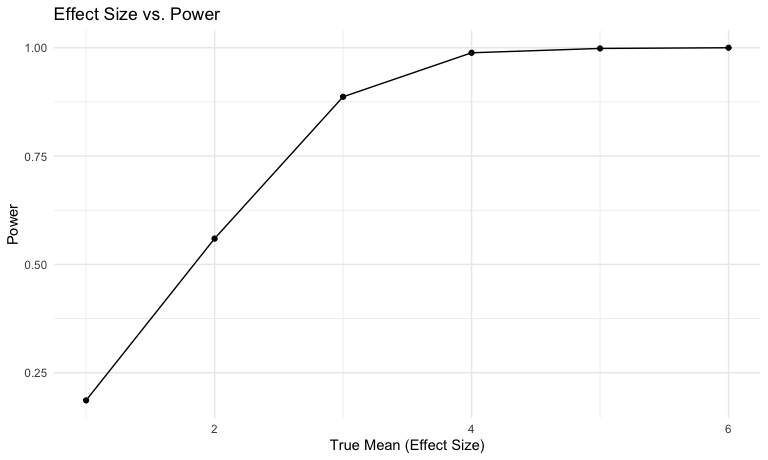
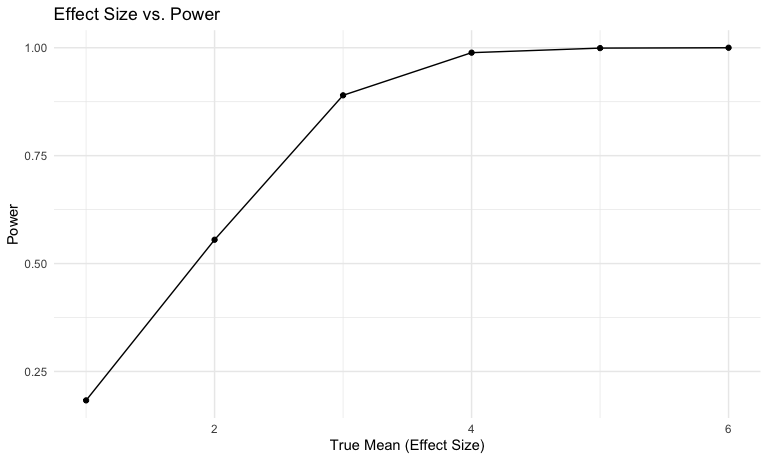
updating typos and making plot more readable

diff --git a/p8105_hw5_sc5826.md b/p8105_hw5_sc5826.md
@@ -23,16 +23,16 @@ bday_sim_results
 ## # A tibble: 49 × 2
 ##    group_size probability
 ##         <int>       <dbl>
-##  1          2      0.0028
-##  2          3      0.008 
-##  3          4      0.0169
-##  4          5      0.0237
-##  5          6      0.0393
-##  6          7      0.0596
-##  7          8      0.0771
-##  8          9      0.0941
-##  9         10      0.119 
-## 10         11      0.137 
+##  1          2      0.0026
+##  2          3      0.0092
+##  3          4      0.0168
+##  4          5      0.0284
+##  5          6      0.0396
+##  6          7      0.0553
+##  7          8      0.0751
+##  8          9      0.092 
+##  9         10      0.117 
+## 10         11      0.141 
 ## # ℹ 39 more rows
 ```
 
@@ -54,7 +54,7 @@ bday_sim_results|>
 The resulting curve is S-shaped, where the probability begins to taper
 around a group size of 50. At a group size of 2, the probability of at
 least 2 people sharing a birthday is 0.003. At a group size of 50, the
-probability of at least 2 people sharing a birthday is 0.971. To have
+probability of at least 2 people sharing a birthday is 0.968. To have
 more than a 50% probability of at least 2 people sharing a birthday, the
 group size needs to be at least 23.
 
@@ -70,7 +70,7 @@ n_datasets = 5000
 alpha = 0.05
 ```
 
-Running simulation for 𝜇 = 0:
+Running simulation for `mu` = 0:
 
 ``` r
 normal_dist_sim_mu_0 = 
@@ -84,22 +84,22 @@ normal_dist_sim_mu_0 =
   unnest(results)
 normal_dist_sim_mu_0
 ## # A tibble: 5,000 × 4
-##     mean  iter  mu_hat p.value
-##    <dbl> <int>   <dbl>   <dbl>
-##  1     0     1  0.0339  0.974 
-##  2     0     2 -0.103   0.902 
-##  3     0     3 -0.197   0.814 
-##  4     0     4 -1.02    0.353 
-##  5     0     5  0.678   0.440 
-##  6     0     6 -0.462   0.640 
-##  7     0     7  1.57    0.0992
-##  8     0     8 -1.06    0.321 
-##  9     0     9  0.198   0.808 
-## 10     0    10  0.0408  0.960 
+##     mean  iter   mu_hat p.value
+##    <dbl> <int>    <dbl>   <dbl>
+##  1     0     1  0.367     0.626
+##  2     0     2 -0.0988    0.911
+##  3     0     3 -0.445     0.648
+##  4     0     4  0.692     0.489
+##  5     0     5 -0.721     0.372
+##  6     0     6  1.12      0.260
+##  7     0     7 -0.760     0.432
+##  8     0     8  0.716     0.438
+##  9     0     9  0.00238   0.997
+## 10     0    10  1.12      0.214
 ## # ℹ 4,990 more rows
 ```
 
-Repeating simulation for 𝜇 in {1, 2, 3, 4, 5, 6}:
+Repeating simulation for `mu` in {1, 2, 3, 4, 5, 6}:
 
 ``` r
 normal_dist_sim = 
@@ -113,18 +113,18 @@ normal_dist_sim =
   unnest(results)
 normal_dist_sim
 ## # A tibble: 30,000 × 4
-##     mean  iter mu_hat p.value
-##    <int> <int>  <dbl>   <dbl>
-##  1     1     1  0.628  0.472 
-##  2     1     2  2.08   0.0140
-##  3     1     3  1.69   0.0440
-##  4     1     4  0.251  0.799 
-##  5     1     5  1.21   0.220 
-##  6     1     6  2.62   0.0101
-##  7     1     7 -0.234  0.775 
-##  8     1     8  2.37   0.0490
-##  9     1     9 -0.657  0.430 
-## 10     1    10  0.765  0.432 
+##     mean  iter  mu_hat  p.value
+##    <int> <int>   <dbl>    <dbl>
+##  1     1     1  0.223  0.819   
+##  2     1     2  0.293  0.738   
+##  3     1     3  0.525  0.569   
+##  4     1     4  0.815  0.395   
+##  5     1     5  3.12   0.000345
+##  6     1     6 -0.186  0.822   
+##  7     1     7  1.51   0.137   
+##  8     1     8  0.928  0.276   
+##  9     1     9  1.60   0.115   
+## 10     1    10  0.0578 0.945   
 ## # ℹ 29,990 more rows
 ```
 
@@ -150,9 +150,9 @@ normal_dist_sim |>
 
 There is an overall positive correlation between effect size and power.
 When effect sizes are very small (\< 2), power is low. This means the
-null hypothesis (𝜇 = 0) is failing to be rejected more often. At larger
-effect sizes (\> 4), power is nearly 1. This means the null hypothesis
-(𝜇 = 0) is being rejected nearly every time.
+null hypothesis (`mu` = 0) is failing to be rejected more often. At
+larger effect sizes (\> 4), power is nearly 1. This means the null
+hypothesis (`mu` = 0) is being rejected nearly every time.
 
 ``` r
 avg_estimates = 
@@ -179,19 +179,20 @@ rbind(avg_estimates, avg_estimates_null_rejected) |>
 
 <img src="p8105_hw5_sc5826_files/figure-gfm/unnamed-chunk-7-1.png" width="90%" />
 
-The sample average of mû across tests for which the null is rejected is
-only approximately equal to the true value of 𝜇 at larger effect sizes
-(\> 4). These larger effect sizes are also the ones at which power is
-nearly 1. As seen in the table below, as effect size increases, more
-tests result in rejecting the null hypothesis. Filtering for the tests
-where the p-value \< 0.05, means that we are only selecting samples that
-are very extreme (since p-value means the probability of seeing a result
-as extreme or more extreme than the result). When there is low power and
-a small effect size, many tests will fail to reject the null hypothesis,
-even if the data set is correctly estimating the true mean. This is also
-seen in the table below, where there is a larger difference between
-“avg_mu_hat_All Samples” and “avg_mu_hat_Filtered Samples (P \< 0.05)”
-at smaller effect sizes.
+The sample average of `mu_hat` across tests for which the null is
+rejected is only approximately equal to the true value of `mu` at larger
+effect sizes (\> 4). These larger effect sizes are also the ones at
+which power is nearly 1. As seen in the table below, as effect size
+increases, more tests result in rejecting the null hypothesis. Filtering
+for the tests where the p-value \< 0.05, means that we are only
+selecting samples that are very extreme (since p-value means the
+probability of seeing a result as extreme or more extreme than the
+result). When there is low power and a small effect size, many tests
+will fail to reject the null hypothesis, even if the data set is
+correctly estimating the true mean. This is also seen in the table
+below, where there is a larger difference between “avg_mu_hat_All
+Samples” and “avg_mu_hat_Filtered Samples (P \< 0.05)” at smaller effect
+sizes.
 
 ``` r
 rbind(avg_estimates, avg_estimates_null_rejected) |> 
@@ -204,12 +205,12 @@ rbind(avg_estimates, avg_estimates_null_rejected) |>
 
 | mean | avg_mu_hat_All Samples | avg_mu_hat_Filtered Samples (P \< 0.05) | n_All Samples | n_Filtered Samples (P \< 0.05) |
 |---:|---:|---:|---:|---:|
-| 1 | 1.010003 | 2.206044 | 5000 | 931 |
-| 2 | 2.004929 | 2.623367 | 5000 | 2798 |
-| 3 | 2.996076 | 3.189938 | 5000 | 4434 |
-| 4 | 4.004333 | 4.031122 | 5000 | 4942 |
-| 5 | 4.996487 | 5.001569 | 5000 | 4992 |
-| 6 | 6.022193 | 6.022193 | 5000 | 5000 |
+| 1 | 0.9871386 | 2.212469 | 5000 | 915 |
+| 2 | 1.9746222 | 2.598187 | 5000 | 2776 |
+| 3 | 3.0225517 | 3.209458 | 5000 | 4449 |
+| 4 | 4.0005166 | 4.027533 | 5000 | 4943 |
+| 5 | 5.0011376 | 5.003570 | 5000 | 4996 |
+| 6 | 5.9870965 | 5.987096 | 5000 | 5000 |
 
 ## Problem 3
 
@@ -336,7 +337,7 @@ prop_test_unsolved_homicides_result |>
 ``` r
 prop_tests_results = 
   homicide_data |> 
-  group_by(city_state,) |> 
+  group_by(city_state) |> 
   summarize(
     num_unsolved_homicides = sum(disposition != "Closed by arrest"),
     num_homicides = n()
@@ -414,16 +415,15 @@ prop_tests_results |>
 ``` r
 prop_tests_results |> 
   mutate(city_state = fct_reorder(city_state, estimate)) |> 
-  ggplot(aes(x = city_state, y = estimate)) + 
+  ggplot(aes(y = city_state, x = estimate)) + 
   geom_point() + 
-  geom_errorbar(aes(ymin = conf.low, ymax = conf.high)) +
-  theme(
-    axis.text.x = element_text(angle=45, hjust=1)
-  ) +
-  xlab("City, State") +
-  ylab("Proportion with Confidence Intervals") + 
+  geom_errorbar(aes(xmin = conf.low, xmax = conf.high)) +
+  xlim(0, 1) + 
+  ylab("City, State") +
+  xlab("Proportion Estimate with Confidence Intervals") + 
   labs(
-    title = "Proportion of Unsolved Homicides - July to December 2020"
+    title = "Proportion of Unsolved Homicides - July to December 2020",
+    caption = "Tulsa, AL only has 1 observation"
   )
 ```
 
